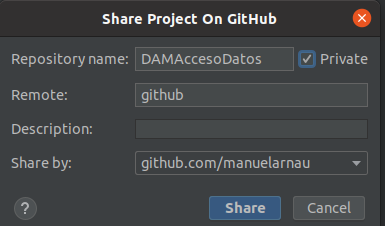
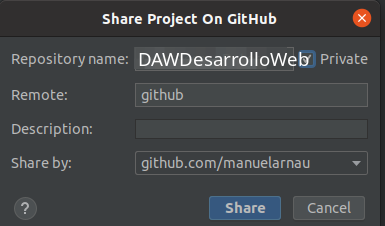
Cambio de Repositorio DAWDesarrolloWeb

Changed region(s): [[0.3429, 0.1858, 0.8104, 0.3097]]

diff --git a/practicas/InteliJGithub.md b/practicas/InteliJGithub.md
@@ -26,7 +26,7 @@
 
 ## Creando el proyecto proyectos integrado con Github
 
-- Creamos un nuevo proyecto
+- Creamos un nuevo proyecto (Recordad que IntelliJ nos permite poner varios subproyectos dentro de un proyecto y será este único proyecto en el que mantendremos todas las prácticas del módulo)
 
 ![IntelliJ7.png](img/IntelliJ7.png)
 
@@ -57,7 +57,7 @@
  
 ![IntelliJ12.png](img/IntelliJ12.png)
 
-- Hacemos el primer commit añadiendo todos los ficheros del proyecto al igual que su configuración
+- Hacemos el primer commit, aunque lo habitual es excluir con un .ignore los archivos propios del entorno local utilizado en el desarrollo en este caso añadiendo todos los ficheros del proyecto al igual que su configuración para comprobar la correcta configuración
  
 ![IntelliJ13.png](img/IntelliJ13.png)
 
